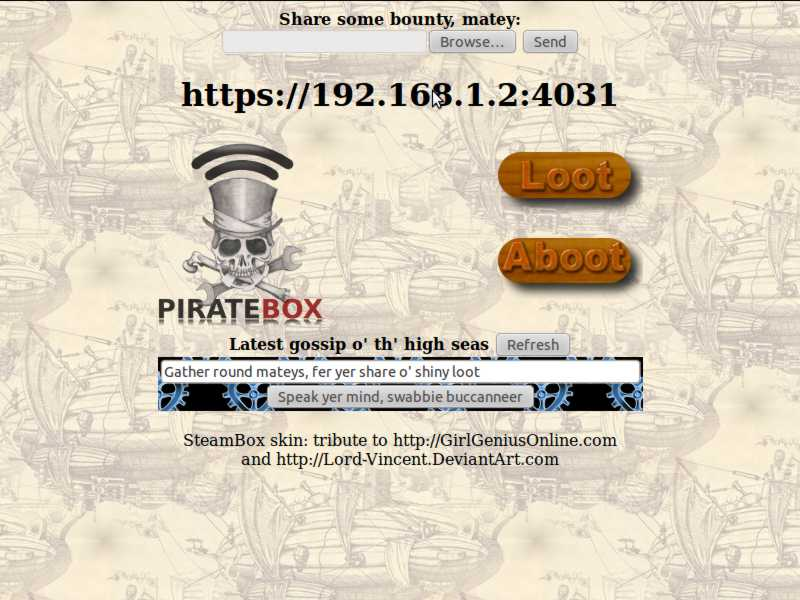
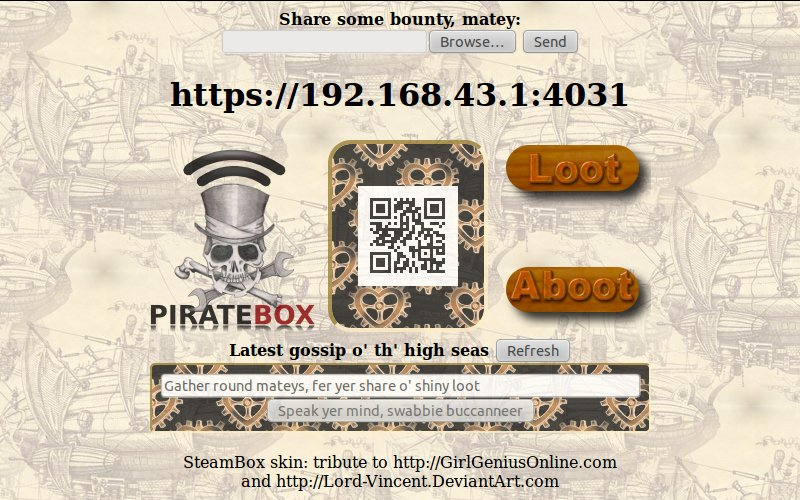
Added QR code
+ some cosmetics

diff --git a/html/css/default.css b/html/css/default.css
@@ -1,5 +1,26 @@
-body {background: #fafafa url('../images/girlgenius-dirigible-tile.png')}
+body {background: #fed url('../images/girlgenius-dirigible-tile.png')}
 a:link, a:visited { color: #753; text-decoration:none; font-weight:bold }
 a:hover { color: #000 }
 a:focus, a:active { outline: 0 }
+#qrdiv {
+    padding:42px 23px;
+    background:url('../images/girlgenius-heart-gear-tile.png');
+    -moz-border-radius: 23px;
+    -webkit-border-radius: 23px;
+    -khtml-border-radius: 23px;
+    border-radius: 23px;
+    opacity:0.7;
+    border:inset #fc3 4px;
+
+}
+#shoutform {
+    background:black url('../images/girlgenius-heart-gear-tile.png');
+    padding:8px;
+    -moz-border-radius: 5px;
+    -webkit-border-radius: 5px;
+    -khtml-border-radius: 5px;
+    border-radius: 5px;
+    opacity:0.7;
+    border:inset #fc3 2px;
+}
 

diff --git a/tools/qrmaker.html b/tools/qrmaker.html
@@ -1,0 +1,19 @@
+<html>
+ <head>
+  <title>SteamBox QR Code Generation (Google API)</title>
+ </head>
+ <body onload="document.getElementById('url').focus()">
+   <form action="http://chart.apis.google.com/chart">
+       <input type="hidden" name="cht" value="qr">
+       <input type="hidden" name="chs" value="100x100">
+       <label for="url">URL of your SteamBox</label>
+       <input id="url" name="chl" onfocus="this.select()">
+       <button>Create QR Code</button>
+   </form>
+To make the QR Code you get here appear in SteamBox, save it as<br>
+/sdcard/paw/html/qrdcodes/<code>&lt;protocol&gt;</code>-<code>&lt;ip&gt;</code>-<code>&lt;port&gt;</code>.png<br>
+For example:<br>
+/sdcard/paw/html/qrdcodes/https-192.168.1.23-4031.png
+ <body>
+ </body>
+</head>
